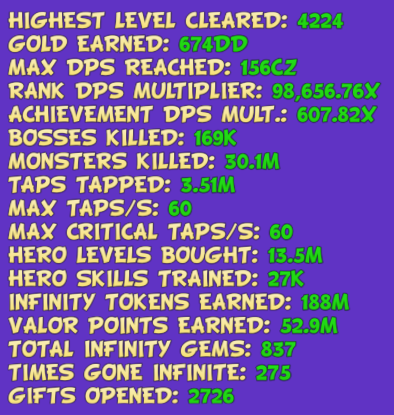
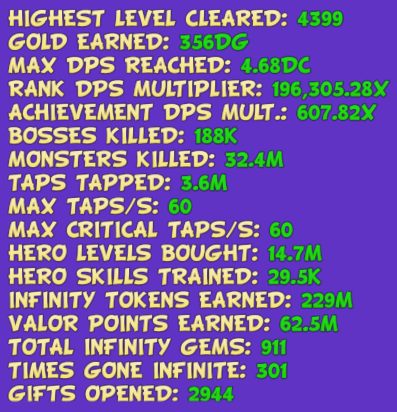
updated save file and info inside README (ascend times 13 -> 14)

diff --git a/README.md b/README.md
@@ -5,7 +5,7 @@ This repository contains [save](./SAVE) for [Tap Tap Infinity](https://store.ste
 ## All time stats
 
 * **Achievements earned:** 96/100
-* **Ascend times:** 13
+* **Ascend times:** 14
 
 ![All time stats](./all-time-stats.png)
 
